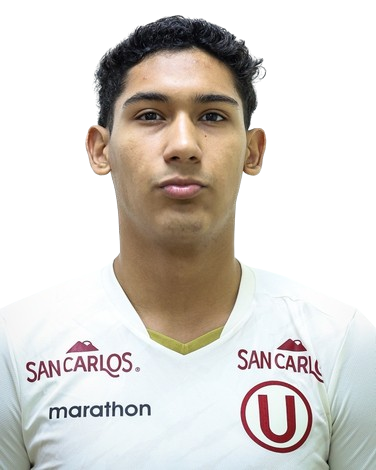
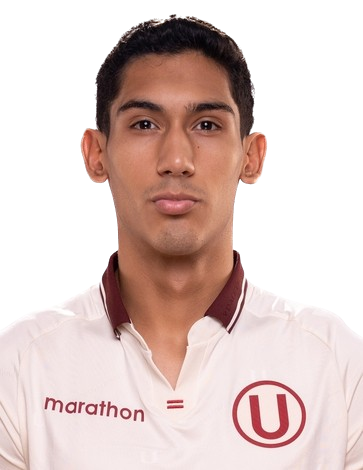
Liga juvenial: card proximo

diff --git a/jomafutsalpro.html b/jomafutsalpro.html
@@ -1071,43 +1071,46 @@ const players = [
   goals: "0",asis: "0",dorsal: "- 19 -",performance: "good",photo: "img/equipo/diego_benites-removebg-preview.png",rat:"0.0"},
 
 
-  {id: 1, year: 2026, role: "GK",duty: "Goalkeeper",nation: "Perú",name: "Martín Vega",position: "GK",pj: "1",
+  {id: 1, year: 2026, role: "GK",duty: "Goalkeeper",nation: "Perú",name: "Leandro More",position: "GK",pj: "2",
+  goals: "0",asis: "0",dorsal: "- 21 -",performance: "good",photo: "img/equipo/leandro-more.png",rat:"7.0"},
+  {id: 1, year: 2026, role: "GK",duty: "Goalkeeper",nation: "Perú",name: "Martín Vega",position: "GK",pj: "2",
   goals: "0",asis: "0",dorsal: "- 01 -",performance: "good",photo: "img/equipo/martin_vega-removebg-preview.png",rat:"7.0"},
-  {id: 1, year: 2026, role: "GK",duty: "Goalkeeper",nation: "Perú",name: "Percy Valverde",position: "GK",pj: "0",
-  goals: "0",asis: "0",dorsal: "- 00 -",performance: "good",photo: "img/equipo/percy_valverde-removebg-preview.png",rat:"0.0"},
-  {id: 1, year: 2026, role: "GK",duty: "Goalkeeper",nation: "Perú",name: "Leandro More",position: "GK",pj: "1",
-  goals: "0",asis: "0",dorsal: "- 21 -",performance: "good",photo: "img/equipo/jugador.png",rat:"6.7"},
+  {id: 1, year: 2026, role: "GK",duty: "Goalkeeper",nation: "Perú",name: "Percy Valverde",position: "GK",pj: "1",
+  goals: "0",asis: "0",dorsal: "- 12 -",performance: "good",photo: "img/equipo/percy_valverde-removebg-preview.png",rat:"7.0"},
 
 
-  {id: 1, year: 2026, role: "FIX",duty: "Fixo",nation: "Perú",name: "Yovanny Portilla",position: "FIX",pj: "1",
-  goals: "0",asis: "0",dorsal: "- 16 -",performance: "good",photo: "img/equipo/giovanny_portilla-removebg-preview.png",rat:"6.7"},
-  {id: 1, year: 2026, role: "FIX",duty: "Fixo",nation: "Perú",name: "Jorge Aguilar",position: "FIX",pj: "1",
+
+  {id: 1, year: 2026, role: "FIX",duty: "Fixo",nation: "Perú",name: "Yovanny Portilla",position: "FIX",pj: "3",
+  goals: "1",asis: "0",dorsal: "- 16 -",performance: "good",photo: "img/equipo/giovanny_portilla-removebg-preview.png",rat:"7.0"},
+  {id: 1, year: 2026, role: "FIX",duty: "Fixo",nation: "Perú",name: "Jorge Aguilar",position: "FIX",pj: "3",
   goals: "0",asis: "0",dorsal: "- 06 -",performance: "good",photo: "img/equipo/jorge_aguilar-removebg-preview.png",rat:"6.7"},
-  {id: 1, year: 2026, role: "FIX",duty: "Fixo",nation: "Perú",name: "Sebastian Obando",position: "FIX",pj: "1",
-  goals: "0",asis: "0",dorsal: "- 08 -",performance: "good",photo: "img/equipo/sebastian_obando-removebg-preview.png",rat:"6.7"},
+  {id: 1, year: 2026, role: "FIX",duty: "Fixo",nation: "Perú",name: "Sebastian Obando",position: "FIX",pj: "3",
+  goals: "2",asis: "0",dorsal: "- 08 -",performance: "good",photo: "img/equipo/sebastian_obando-removebg-preview.png",rat:"7.4"},
 
-  {id: 1, year: 2026, role: "WNG",duty: "Winger",nation: "Perú",name: "Miguel Cardenas",position: "WNG",pj: "0",
-  goals: "0",asis: "0",dorsal: "- 00 -",performance: "good",photo: "img/equipo/miguel_cardenas-removebg-preview.png",rat:"6.7"},
-  {id: 1, year: 2026, role: "WNG",duty: "Winger",nation: "Venezuela",name: "Yonder Aparicio",position: "WNG",pj: "1",
-  goals: "0",asis: "0",dorsal: "- 24 -",performance: "good",photo: "img/equipo/yonder_aparicio-removebg-preview.png",rat:"6.7"},
-  {id: 1, year: 2026, role: "WNG",duty: "Winger",nation: "Perú",name: "Leonel Yglesias",position: "WNG",pj: "1",
-  goals: "1",asis: "0",dorsal: "- 03 -",performance: "good",photo: "img/equipo/leonel_reyes-removebg-preview.png",rat:"7.7"},
-  {id: 1, year: 2026, role: "WNG",duty: "Winger",nation: "Perú",name: "Pedro Mallaupoma",position: "WNG",pj: "1",
-  goals: "1",asis: "0",dorsal: "- 11 -",performance: "good",photo: "img/equipo/pedro_mallaupoma-removebg-preview.png",rat:"7.7"},
-  {id: 1, year: 2026, role: "WNG",duty: "Winger",nation: "Perú",name: "Angello Paipay",position: "WNG",pj: "1",
+  {id: 1, year: 2026, role: "WNG",duty: "Winger",nation: "Perú",name: "Miguel Cardenas",position: "WNG",pj: "1",
+  goals: "0",asis: "0",dorsal: "- 22 -",performance: "good",photo: "img/equipo/miguel_cardenas-removebg-preview.png",rat:"6.7"},
+  {id: 1, year: 2026, role: "WNG",duty: "Winger",nation: "Venezuela",name: "Yonder Aparicio",position: "WNG",pj: "3",
+  goals: "3",asis: "0",dorsal: "- 24 -",performance: "good",photo: "img/equipo/yonder_aparicio-removebg-preview.png",rat:"7.7"},
+  {id: 1, year: 2026, role: "WNG",duty: "Winger",nation: "Perú",name: "Leonel Yglesias",position: "WNG",pj: "3",
+  goals: "1",asis: "0",dorsal: "- 03 -",performance: "good",photo: "img/equipo/leonel_reyes-removebg-preview.png",rat:"7.0"},
+  {id: 1, year: 2026, role: "WNG",duty: "Winger",nation: "Perú",name: "Pedro Mallaupoma",position: "WNG",pj: "3",
+  goals: "3",asis: "0",dorsal: "- 11 -",performance: "good",photo: "img/equipo/pedro_mallaupoma-removebg-preview.png",rat:"7.7"},
+  {id: 1, year: 2026, role: "WNG",duty: "Winger",nation: "Perú",name: "Angello Paipay",position: "WNG",pj: "3",
   goals: "0",asis: "0",dorsal: "- 15 -",performance: "good",photo: "img/equipo/angello_paipay-removebg-preview.png",rat:"6.7"},
-  {id: 1, year: 2026, role: "WNG",duty: "Winger",nation: "Perú",name: "Renato Cornejo",position: "WNG",pj: "1",
-  goals: "2",asis: "0",dorsal: "- 23 -",performance: "good",photo: "img/equipo/renato_cornejo-removebg-preview.png",rat:"8.7"},
-  {id: 1, year: 2026, role: "WNG",duty: "Winger",nation: "Argentina",name: "Agustín López",position: "WNG",pj: "1",
-  goals: "0",asis: "0",dorsal: "- 17 -",performance: "good",photo: "img/equipo/agustin_lopez-removebg-preview.png",rat:"6.7"},
-  {id: 1, year: 2026, role: "WNG",duty: "Winger",nation: "Perú",name: "José María Jímenez",position: "WNG",pj: "1",
+  {id: 1, year: 2026, role: "WNG",duty: "Winger",nation: "Perú",name: "Renato Cornejo",position: "WNG",pj: "3",
+  goals: "5",asis: "0",dorsal: "- 23 -",performance: "good",photo: "img/equipo/renato_cornejo-removebg-preview.png",rat:"8.4"},
+  {id: 1, year: 2026, role: "WNG",duty: "Winger",nation: "Argentina",name: "Agustín López",position: "WNG",pj: "3",
+  goals: "1",asis: "0",dorsal: "- 17 -",performance: "good",photo: "img/equipo/agustin_lopez-removebg-preview.png",rat:"7.0"},
+  {id: 1, year: 2026, role: "WNG",duty: "Winger",nation: "Perú",name: "José María Jímenez",position: "WNG",pj: "3",
   goals: "0",asis: "0",dorsal: "- 13 -",performance: "good",photo: "img/equipo/jose_maria_jimenez-removebg-preview.png",rat:"6.7"},
 
 
-  {id: 1, year: 2026, role: "PIV",duty: "Pivot",nation: "Perú",name: "Juan José Malache",position: "PIV",pj: "1",
-  goals: "0",asis: "0",dorsal: "- 04 -",performance: "good",photo: "img/equipo/juan_malache-removebg-preview.png",rat:"6.7"},
-  {id: 1, year: 2026, role: "PIV",duty: "Pivot",nation: "Venezuela",name: "Roberto Ramos",position: "PIV",pj: "1",
+  {id: 1, year: 2026, role: "PIV",duty: "Pivot",nation: "Perú",name: "Juan José Malache",position: "PIV",pj: "3",
+  goals: "1",asis: "0",dorsal: "- 04 -",performance: "good",photo: "img/equipo/juan_malache-removebg-preview.png",rat:"7.0"},
+  {id: 1, year: 2026, role: "PIV",duty: "Pivot",nation: "Venezuela",name: "Roberto Ramos",position: "PIV",pj: "2",
   goals: "0",asis: "0",dorsal: "- 10 -",performance: "good",photo: "img/equipo/roberto_ramos-removebg-preview.png",rat:"6.7"},
+  {id: 1, year: 2026, role: "PIV",duty: "Pivot",nation: "Perú",name: "Jacinto Guerrero",position: "PIV",pj: "1",
+  goals: "0",asis: "0",dorsal: "- 14 -",performance: "good",photo: "img/equipo/jacinto_guerrero-removebg-preview.png",rat:"6.7"},
 
 ];
 

diff --git a/laliga.html b/laliga.html
@@ -1089,12 +1089,17 @@ const players = [
   {id: 1, year: 2026, role: "SG",duty: "Shooting Guard",nation: "Perú",name: "Stefano Susffalich",position: "SG",
    pj: "0", goals: "0",asis: "0",dorsal: "- 03 -",performance: "Medium",photo: "img/equipo/stefano_susffalich.png",rat:"0.0"},
 
+        {id: 1, year: 2026, role: "SF",duty: "Small Forward",nation: "EE.UU",name: "Elijah Wyche",position: "SF",
+   pj: "0", goals: "0",asis: "0",dorsal: "- 06 -",performance: "Medium",photo: "img/equipo/elijah_wyche.png",rat:"0.0"},
   {id: 1, year: 2026, role: "SF",duty: "Small Forward",nation: "Perú",name: "Luigi Casanova",position: "SF",
    pj: "0", goals: "0",asis: "0",dorsal: "- 05 -",performance: "Medium",photo: "img/equipo/luigi_casanova.png",rat:"0.0"},
   {id: 1, year: 2026, role: "SF",duty: "Small Forward",nation: "Perú",name: "Piero Alva",position: "SF",
    pj: "0", goals: "0",asis: "0",dorsal: "- 23 -",performance: "Medium",photo: "img/equipo/piero_alva.png",rat:"0.0"},
   {id: 1, year: 2026, role: "SF",duty: "Small Forward",nation: "Perú",name: "Andrés Seminario",position: "SF",
    pj: "0", goals: "0",asis: "0",dorsal: "- 77 -",performance: "Medium",photo: "img/equipo/andres_seminario.png",rat:"0.0"},
+
+
+
 
   {id: 1, year: 2026, role: "PF",duty: "Power Forward",nation: "Perú",name: "Giancarlo Guillen",position: "PF",
   pj: "0", goals: "0",asis: "0",dorsal: "- 10 -",performance: "Medium",photo: "img/equipo/giancarlo_guillen.png",rat:"0.0"},
